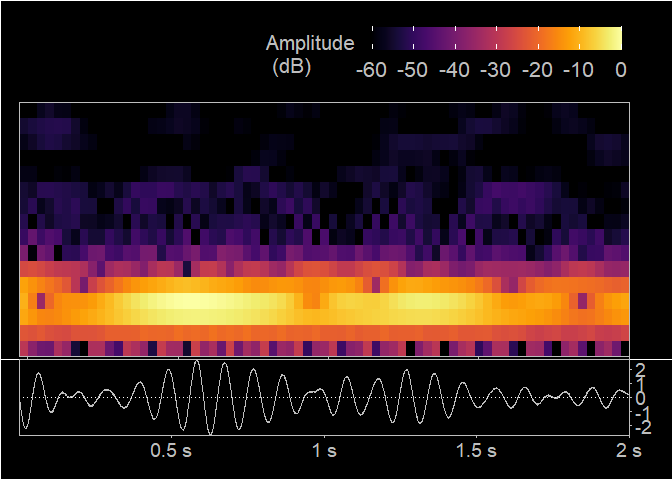
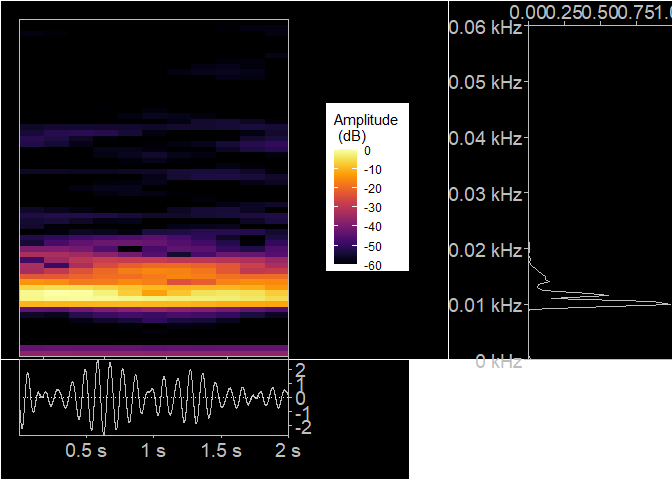
add spectre

diff --git a/README.md b/README.md
@@ -2,7 +2,7 @@
 
 Nice book about sound analysis using R
 [](https://link.springer.com/book/10.1007/978-3-319-77647-7), it shows
-many examples for plotting spectrogram
+many examples for plotting spectorgrams
 
 ## R Markdown
 
@@ -78,7 +78,7 @@ Read file npy
 
     }
 
-    "00001f4945.npy" %>% readWaveFromNpy(1)  %>% spec( flim = c(0,0.05) )
+    "00001f4945.npy" %>% readWaveFromNpy(1)  %>% spec( flim = c(0,0.03) )
 
     ## Warning in .local(left, ...): 'bit' not specified, assuming 16bit
 
@@ -126,6 +126,7 @@ result we are looking is to plot some graphs.
       lab <- paste0(x, " s")
     }
 
+
     # y label formatter
     khz_formatter <- function(y){
       lab <- paste0(y, " kHz")
@@ -152,12 +153,12 @@ result we are looking is to plot some graphs.
 
                               axis.line = element_blank(),
 
-                              legend.position = "top",
-                              legend.justification = "right",
-                              legend.background = element_rect(fill="black"),
-                              legend.key.width = unit(50, "native"),
-                              legend.title = element_text(size=16, color="grey"),
-                              legend.text = element_text(size=16, color="grey"),
+                              # legend.position = "top",
+                              # legend.justification = "right",
+                              # legend.background = element_rect(fill="black"),
+                              # legend.key.width = unit(50, "native"),
+                              # legend.title = element_text(size=16, color="grey"),
+                              # legend.text = element_text(size=16, color="grey"),
 
                               plot.background = element_rect(fill="black"),
                               plot.margin = margin(1,1,0,1, "lines"),
@@ -168,7 +169,7 @@ result we are looking is to plot some graphs.
                               axis.ticks = element_line(color="grey"))
 
       wav %>%
-              ggspectro( ovlp=90, flim=c(0,0.06))+
+              ggspectro( ovlp=90, flim=c(0,0.06), wl = 2048)+
               scale_x_continuous(labels=s_formatter, expand = c(0,0))+
               scale_y_continuous(breaks = seq(from = 5, to = 20, by=5), expand = c(0,0), labels = khz_formatter, position = "right")+
               geom_raster(aes(fill=amplitude), hjust = 0, vjust = 0, interpolate = F)+
@@ -200,33 +201,66 @@ result we are looking is to plot some graphs.
     }
 
 
+    buildFFT <- function( wav ,upperFrequencyLimit = 0.06) {
+
+      oscillo_theme_dark <- theme(panel.grid.major.y = element_line(color="black", linetype = "dotted"),
+                                  panel.grid.major.x = element_blank(),
+                                  panel.grid.minor = element_blank(),
+                                  panel.background = element_rect(fill="transparent"),
+                                  panel.border = element_rect(linetype = "solid", fill = NA, color = "grey"),
+                                  axis.line = element_blank(),
+                                  legend.position = "none",
+                                  plot.background = element_rect(fill="black"),
+                                  plot.margin = unit(c(0,0,0,0), "lines"),
+                                  axis.title = element_blank(),
+                                  axis.text = element_text(size=14, color = "grey"),
+                                  axis.ticks = element_line(color="grey"))
+
+              wav %>%
+              spec(  plot = 0) %>%
+              as.data.frame() %>%
+              filter( x <= upperFrequencyLimit ) %>%
+              ggplot() +
+              geom_line(mapping = aes(x=x, y=y), color="grey")+
+              scale_x_continuous(labels=khz_formatter, expand = c(0,0))+
+              scale_y_continuous(expand = c(0,0), position = "right")+
+              geom_hline(yintercept = 0, color="white", linetype = "dotted")+
+                      coord_flip()+
+              oscillo_theme_dark
+    }
+
+
+
+
     #-------------------------------------------
     ## PLOT GRID
     #-------------------------------------------
 
-    showPlotsInGrid <- function( hotplot , oscplot ) {
+    showPlotsInGrid <- function( hotplot , oscplot , fftPlot ) {
       gA <- hotplot %>% ggplot_build() %>% ggplot_gtable()
       gB <- oscplot %>% ggplot_build() %>% ggplot_gtable()
+      gC <- fftPlot %>% ggplot_build() %>% ggplot_gtable()
 
       maxWidth = grid::unit.pmax(gA$widths, gB$widths)
 
       gA$widths <- as.list(maxWidth)
       gB$widths <- as.list(maxWidth)
 
-      layo <- rbind(c(1,1,1),
-                    c(1,1,1),
-                    c(1,1,1),
-                    c(2,2,2))
+      layo <- rbind(c(1,1,3),
+                    c(1,1,3),
+                    c(1,1,3),
+                    c(2,2,NA))
 
       grid.newpage()
-      grid.arrange(gA, gB, layout_matrix = layo)
+      grid.arrange(gA, gB,gC, layout_matrix = layo)
     }
 
 
     showPlots <- function(wav) {
-       hotplot = wav %>% buildSpectrograph()
-       oscplot = wav %>% buildDataFrameOfWave() %>% buildOscilograph()
-      showPlotsInGrid( hotplot, oscplot)
+       hotplot <- wav %>% buildSpectrograph()
+       oscplot <- wav %>% buildDataFrameOfWave() %>% buildOscilograph()
+       fftPlot <- wav %>% buildFFT()
+      showPlotsInGrid( hotplot, oscplot,fftPlot)
     }
 
     "00001f4945.npy" %>% readWaveFromNpy(2) %>% showPlots()
@@ -236,4 +270,4 @@ result we are looking is to plot some graphs.
     ## Scale for 'fill' is already present. Adding another scale for 'fill', which
     ## will replace the existing scale.
 
-![](README_files/figure-markdown_strict/unnamed-chunk-2-1.png)
+![](C:\Users\I023373\ONEDRI~1\WORKPR~1\DATASC~1\G2NET-~1\README~1/figure-markdown_strict/unnamed-chunk-2-1.png)
